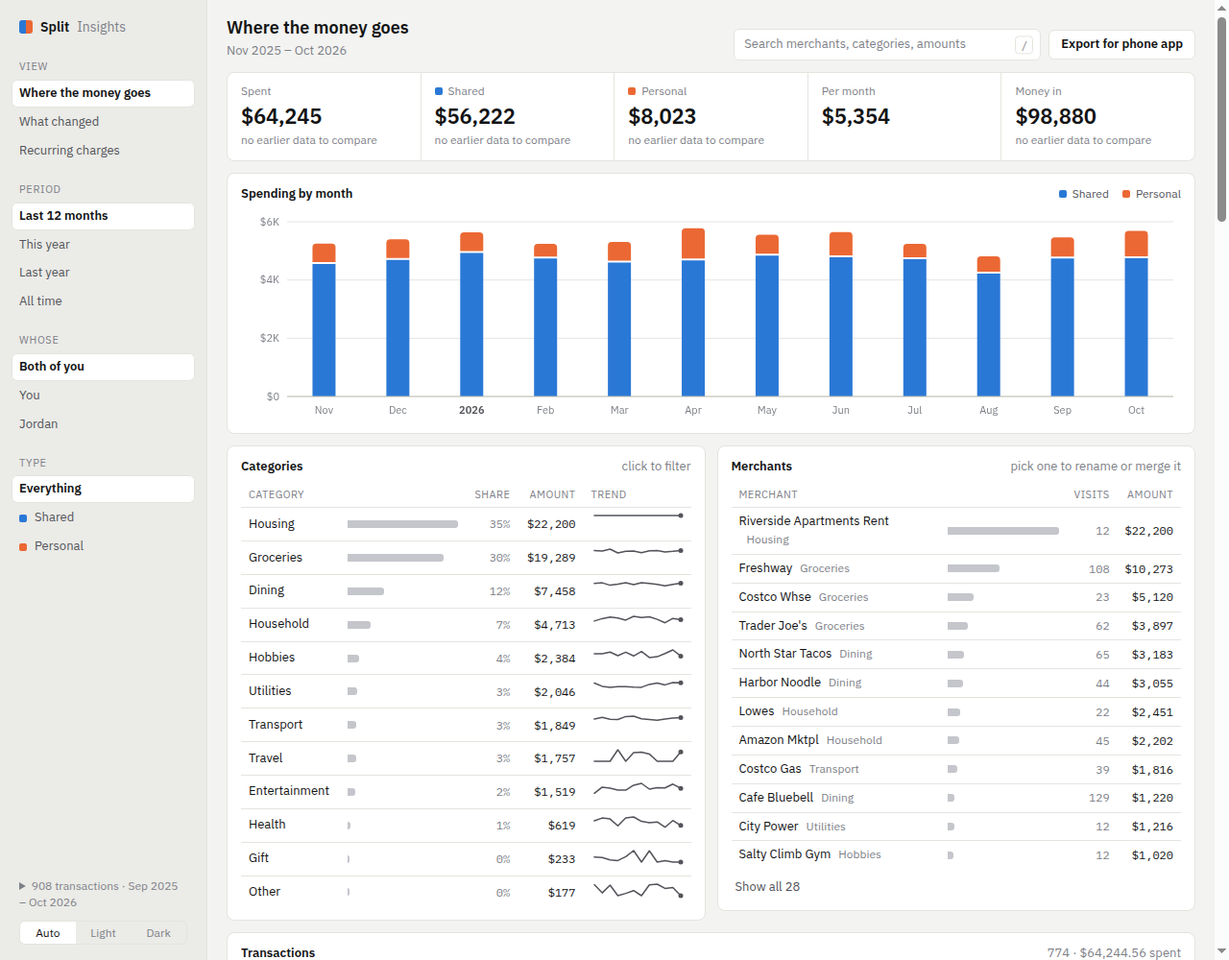
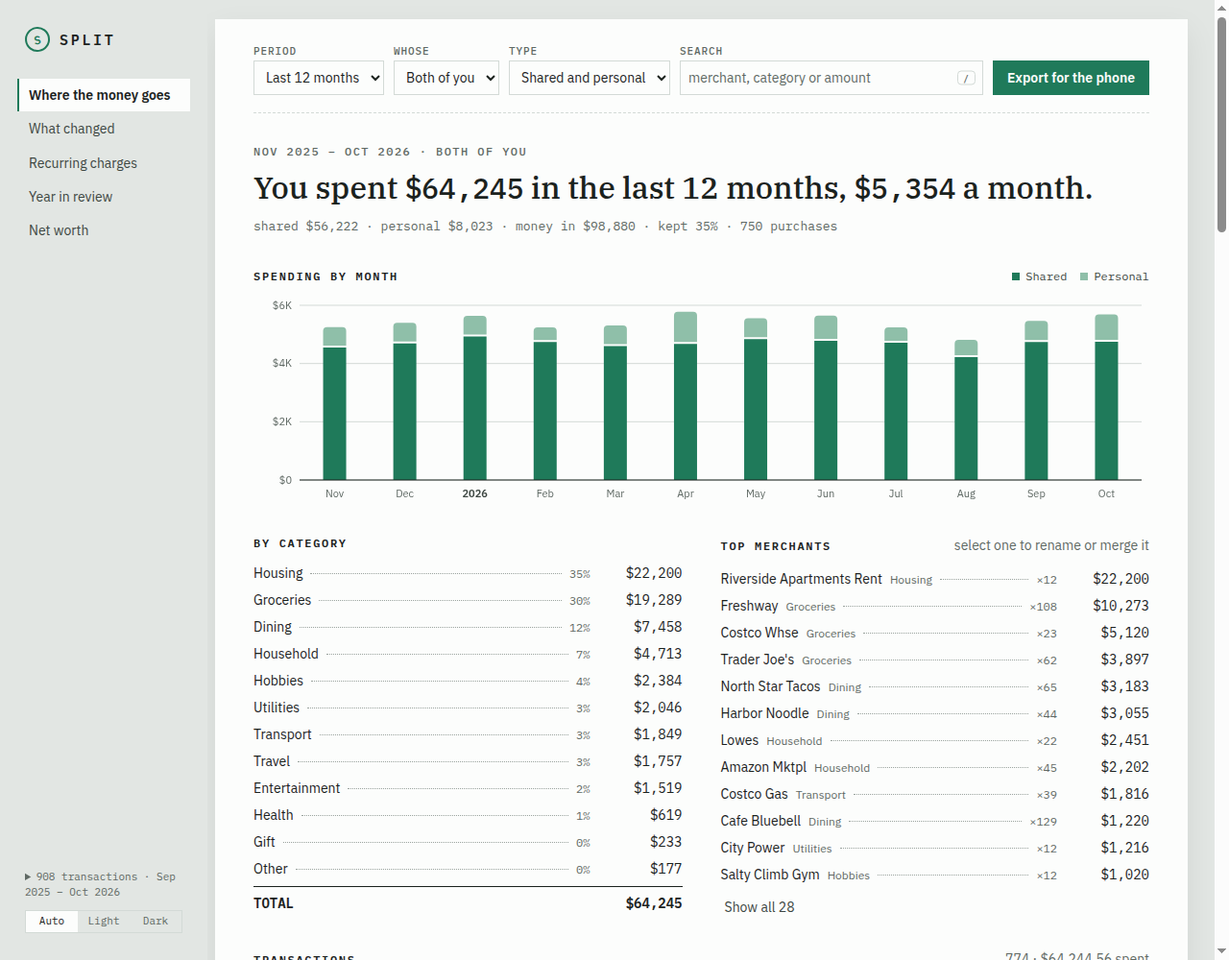
Bring the READMEs up to date

diff --git a/web/README.md b/web/README.md
@@ -8,7 +8,7 @@ The screen refreshes every 15 seconds while it's open, and whenever you switch b
 
 ## 1. Run it locally
 
-You need **Node 20 or newer** (Node 22 is best; Wrangler refuses to run on 18).
+You need **Node 22 or newer**, the same as CI.
 
     cd web
     npm install
@@ -29,16 +29,17 @@ To test the whole backend (sign-up and sign-in, the security guards, throttling,
 
     npm run test:api
 
-It builds the app, starts the Worker against a brand-new throwaway database, runs about 15 checks over HTTP, then deletes everything. Your local and deployed data aren't touched. Run it after any change to `worker/`, `shared/` or `migrations/`, before you deploy.
+It builds the app, starts the Worker against a brand-new throwaway database, runs about 60 checks over HTTP, then deletes everything. Your local and deployed data aren't touched. Run it after any change to `worker/`, `shared/` or `migrations/`, before you deploy.
 
-To check for common mistakes (unused code, misused React hooks and so on):
+To check for common mistakes (unused code, misused React hooks and so on), and the formatting:
 
     npm run lint
+    npm run format:check      # npm run format fixes it
 
 
 ## 2. Deploy to Cloudflare
 
-You need a free Cloudflare account and Node 20 or newer. Run everything from the `web/` folder. Deploy from your computer with the commands below; don't connect the git repo in the Cloudflare dashboard (see "Things to avoid").
+You need a free Cloudflare account and Node 22 or newer. Run everything from the `web/` folder. Deploy from your computer with the commands below; don't connect the git repo in the Cloudflare dashboard (see "Things to avoid").
 
 **Step 1: log in to Cloudflare.**
 
@@ -95,7 +96,7 @@ The `backups/` folder is git-ignored. The file contains your full ledger and the
 ### Things to avoid
 
 - **Don't connect the GitHub repo to Cloudflare's dashboard builds.** By default they also build every other branch you push and serve it at a public preview URL that uses the *real* database. Deploying from your computer avoids that, and `preview_urls` is turned off in `wrangler.jsonc`.
-- **Don't commit your data.** The repo on GitHub is public. `ledger.csv`, `split_transactions.csv`, `split_summary.json`, `.split_state.json`, `statements/`, PDFs and `backups/` are git-ignored; keep it that way, and check `git status` before committing.
+- **Don't commit your data.** The repo on GitHub is private, but treat it as if it weren't. `ledger.csv`, `split_transactions.csv`, `split_summary.json`, `.split_state.json`, `statements/`, PDFs and `backups/` are git-ignored; keep it that way, and check `git status` before committing.
 - **Never put a Cloudflare API token** or anything secret in `wrangler.jsonc`, `.env` files that aren't ignored, or the code. The app doesn't need any.
 
 ### How sign-in is protected
@@ -156,19 +157,19 @@ Sign in with email and password the first time, then add a passkey when the app 
 
 - **Add expense**: amount, name, who paid, and your share. Under the name you get names you've used before; tap one and it also fills in the category you gave it last time (until you pick a category yourself). Your share is a row of quick picks starting at your default split (see below): "Split evenly", "All theirs", "All mine", or "Custom…" for any percentage.
 - **Reading the list**: each row says who paid and who owes whom, like "You paid $184.32 · Sam owes you", and the amount on the right is what that entry adds to the balance (green: owed to you, red: you owe). Payments between you are greyed out with a PAID stamp, and each month ends with a subtotal: how much that month moved the balance.
-- **Search and filters**, under the balance: type part of a name, a category or an exact amount (`84.20`). **Filters** narrows by type (expenses or payments), who paid, category and a date range. The line under them counts what matches, with what was spent and your share of it (expenses only, not voided ones), and **Clear** resets everything. Imported statements are split across categories, so the category filter doesn't find them; the Spending tab does.
+- **Search and filters**, under the balance: type part of a name, a category or an exact amount (`84.20`). **Filters** narrows by type (expenses or payments), who paid, category and a date range. The line under them counts what matches, with what was spent and your share of it (expenses only, not voided ones), and **Clear** resets everything. Imported statements are split across categories, so the category filter doesn't find them; the Spending tab does, and its category sheet can open the Ledger with exactly the entries it counts (see below).
 - **Tap any entry** to see the details: who paid, the split, who added it and when. Entries your partner added say "added by …" in the list.
 - **Edit**: from an entry's details. The original isn't overwritten. It's kept in the history, marked "edited", and the corrected copy takes its place. The type (expense, payment, starting balance) can't change in an edit.
 - **Settle up**: records a payment between you. It defaults to the full balance, paid by whoever owes. It only updates the ledger and doesn't move any money.
 - **More > Recurring expenses**: rent, subscriptions and other bills with a fixed amount. Set the amount, who pays, the split, how often (weekly, monthly or yearly) and the first date (today or later). Each one is added to the ledger by itself, marked ↻, the first time either of you opens the app on or after its date. If nobody opens the app for a while, the missed ones are all added next time. A rule on the 29th–31st uses the last day of shorter months. Edit a rule to change the amount, payer or split (from the next one on), or to pause it. Resuming doesn't fill in the paused months. Stopping a rule keeps the entries it already added, and a voided or edited one never comes back. Bills paid by card also show up on your statements, so mark those vendors as "self" in `split-statements` to avoid counting them twice.
 - **More > Default split**: the share each of you normally pays, like 60/40. It's one setting for both of you and can be set once you've both joined.
-- **More > Import statement summary**: adds a statement to the app as totals only. On your computer, run `uv run split-ledger finish` (add `--person sam` for Sam's files). It writes `split_summary.json` with totals per month and category: the shared transactions, plus that person's own spending and income. Open it to see exactly what the app will get. It then archives the batch and prints where the file is. Get that small file to your phone (AirDrop, iCloud Drive), choose it in the app, and say **whose statement it is** (it also sets who paid the shared part). You can leave either part out. The shared part becomes one ledger entry, like `Expenses 01/15/26-02/03/26`, with its category breakdown. The personal part is saved as that person's monthly spending and income by category, visible to both of you. Everything is saved together or not at all, and the same statement can't be uploaded twice for the same person. The detailed transaction files never leave your computer: the app refuses them if you pick one by mistake. Older summary files (shared total only) still work.
+- **More > Import statement summary**: adds a statement to the app as totals only. On your computer, run `uv run split-ledger finish` (add `--person sam` for Sam's files). It writes `split_summary.json` with totals per month and category: the shared transactions, plus that person's own spending and income. Open it to see exactly what the app will get. It then archives the batch and prints where the file is. Get that small file to your phone (AirDrop, iCloud Drive), choose it in the app, and say **whose statement it is** (it also sets who paid the shared part). You can leave either part out. The shared part becomes one ledger entry, like `Expenses 01/15/26-02/03/26`, with its category breakdown. The personal part is saved as that person's monthly spending and income by category, visible to both of you. Everything is saved together or not at all, and the same statement can't be uploaded twice for the same person. One upload can cover up to 24 months. The detailed transaction files never leave your computer: the app refuses them if you pick one by mistake. Older summary files (shared total only) still work.
 - **Categories**: expenses you add by hand and recurring expenses can have an optional category, for the spending reports.
 - **Spending tab** (Ledger · Spending · Trends at the top): spending and cash flow by month, built only from totals.
   - Switch between **You**, **Sam**, **Shared** and **Both**. "You" is your own uploaded spending plus *your share* of shared expenses (so a $100 shared grocery run at 50/50 counts as $50). "Shared" is shared expenses at their full amount. "Both" is everything, and always equals You + Sam.
   - **Net cash flow** is money in (income from your uploads) minus spending, with how much of your income you kept.
   - A **coverage strip** shows which days of the month your uploads cover. A month that's only partly uploaded says so and hides comparisons, and a month with nothing uploaded for someone is marked incomplete rather than shown as overspending.
-  - **By category** lists the month's categories, with the change against the average of earlier months that have data. Tap one for its 12-month trend and what's in it: shared expenses by name, statement uploads as a monthly total only. **Move money to another category** fixes a month after the fact, e.g. $700 of a Costco run from groceries to household. It changes one upload or one imported shared statement, so totals and the balance stay the same; for a shared one the amount is the full shared amount and it changes for both of you. Undo right after, or move it back later. (Hand-added expenses: edit their category instead.)
+  - **By category** lists the month's categories, with the change against the average of earlier months that have data. Tap one for its 12-month trend and what's in it: shared expenses by name, statement uploads as a monthly total only. **See these entries in the Ledger** opens the Ledger showing just those shared expenses, with a "From Spending" line and **Show all** to go back. An imported statement shows there in full, though Spending only counts its part in that category. **Move money to another category** fixes a month after the fact, e.g. $700 of a Costco run from groceries to household. It changes one upload or one imported shared statement, so totals and the balance stay the same; for a shared one the amount is the full shared amount and it changes for both of you. Undo right after, or move it back later. (Hand-added expenses: edit their category instead.)
   - **Last 6 months** charts net cash flow (or shared spending); tap a month to jump to it. "Show numbers" under each chart has the same numbers as a table.
   - **Statement uploads** lists every upload, and you can delete a wrong one. A shared entry added by the same import stays in the ledger; void it there.
   - Payments between you, starting balances and voided entries never count as spending. Shared expenses added without a category show as "No category".
@@ -207,8 +208,11 @@ Also bump the `?v=` numbers on the other icon links, deploy, and remove and re-a
 
     migrations/           D1 (SQLite) tables, applied in order
     shared/owed.ts        the splitting rule, used by both the app and the Worker
+    shared/categories.*   the category list (the Python scripts keep a copy; a test checks they match)
+    shared/recurring.ts   recurring-expense dates, shared by the app and the Worker
+    shared/limits.ts      limits the app and the desktop page share, like 24 months per upload
     public/_headers       security headers for the pages
-    scripts/              reset-password helper
+    scripts/              reset-password, desktop-key, and install-app (adds the desktop app to the menu)
     tests/api.test.mjs    end-to-end backend tests (npm run test:api)
     tests/fake-passkey.mjs  a software passkey for those tests
     worker/index.ts       the backend's front door: routes each /api/* request
@@ -219,6 +223,7 @@ Also bump the `?v=` numbers on the other icon links, deploy, and remove and re-a
     worker/entries.ts     add, edit, void and restore entries
     worker/recurring.ts   recurring expenses
     worker/spending.ts    statement imports and spending totals
+    worker/desktop.ts     desktop keys, and the uploads they're allowed to list, add and replace
     eslint.config.js      lint rules (npm run lint)
     src/ledger.ts         money parsing, balance math, CSV import and export
     src/ledger.test.ts    tests for the above
@@ -237,6 +242,8 @@ Also bump the `?v=` numbers on the other icon links, deploy, and remove and re-a
     src/SpendingScreen.tsx the Spending tab
     src/files.ts          saving files (CSV exports) to the device
     src/ui.tsx            shared UI pieces
+    desktop/              the desktop page that split-insights serves (npm run build:desktop)
+    src-tauri/            the desktop app around that page (npm run app)
     wrangler.jsonc        Cloudflare config
 
 ## Not done yet

diff --git a/src/split_expenses/README.md b/src/split_expenses/README.md
@@ -2,17 +2,17 @@
 
 These run on your computer and never send anything anywhere. There are three:
 
-- `split-statements` reads bank statement PDFs and goes through every transaction once: money out is yours, shared or excluded; money in is income, a return or excluded. Each gets a category.
+- `split-statements` reads bank statements (PDFs, or CSV and OFX downloads) and goes through every transaction once: money out is yours, shared or excluded; money in is income, a return or excluded. Each gets a category.
 - `split-ledger` keeps a running balance of who owes who, and writes the totals-only summary that the web app imports.
-- `split-insights` opens a page in your browser with every transaction you've gone through, for digging into where the money goes.
+- `split-insights` opens a page in your browser with every transaction you've gone through, for digging into where the money goes, and your net worth.
 
-Run both from the repo root, not from this folder. For how they fit with the web app, see the [main README](../../README.md).
+Run them from the repo root, not from this folder. For how they fit with the web app, see the [main README](../../README.md).
 
-The scripts keep your data in plain files (`ledger.csv`, `split_transactions.csv`, `personal_transactions.csv`, `split_summary.json`, `.split_state.json`, `data/` for `--person`, and your PDFs in `statements/`). The `.gitignore` leaves those out of the repo on purpose. This repo is public, so check `git status` before every commit.
+The scripts keep your data in plain files (`ledger.csv`, `split_transactions.csv`, `personal_transactions.csv`, `split_summary.json`, `.split_state.json`, `data/` for `--person`, and your PDFs in `statements/`). The `.gitignore` leaves those out of the repo on purpose, along with `archive/`, `balances/` and `desktop-data/`. Check `git status` before every commit anyway.
 
 ## Setup
 
-Run both from the repo root with `uv run split-statements` and `uv run split-ledger`. There's nothing to install by hand: the first time, uv sets up the project and its one dependency, `pdfplumber`. Your files are read and written in the folder you run the commands from.
+Run them from the repo root with `uv run split-statements`, `uv run split-ledger` and `uv run split-insights`. There's nothing to install by hand: the first time, uv sets up the project and its one dependency, `pdfplumber`. Your files are read and written in the folder you run the commands from.
 
 **Both of you on one computer:** add `--person sam` (any short name) to `split-statements` and `split-ledger summarize` / `finish`. That person's review progress, remembered vendors, transaction files and summary then live in `data/sam/`, so the two of you never mix. Without `--person`, the files are in the repo root as before.
 
@@ -55,6 +55,7 @@ It keeps track of what you've already gone through in `.split_state.json`, so yo
 Options:
 
 - `--person NAME` keep this person's files in `data/NAME/`
+- `--csv-sign negative-out` or `positive-out` say which sign is money out in CSV downloads with one amount column
 - `-o FILE` save splits somewhere other than `split_transactions.csv`
 - `--personal-output FILE` save your own transactions somewhere other than `personal_transactions.csv`
 - `--dump` just print what it parsed, no questions
@@ -97,7 +98,7 @@ Or do both steps at once, summarize and then archive:
 
     uv run split-ledger finish --person sam
 
-It writes the summary, moves the batch into `archive/<date>/` (see "A typical month" in the [main README](../../README.md#a-typical-month)) and prints the path of the summary to import, like `archive/sam/2026-11-08/split_summary.json`. If there's nothing to summarize, nothing is moved. It takes `--no-personal` and `--name` like `summarize`; the personal transactions are archived either way. It stops if a `split_summary.json` from an earlier `summarize` is still there, since that one may already be imported.
+`uv run split-ledger archive` does just the second step. `finish` writes the summary, moves the batch into `archive/<date>/` (see "A typical month" in the [main README](../../README.md#a-typical-month)) and prints the path of the summary to import, like `archive/sam/2026-11-08/split_summary.json`. If there's nothing to summarize, nothing is moved. It takes `--no-personal` and `--name` like `summarize`; the personal transactions are archived either way. It stops if a `split_summary.json` from an earlier `summarize` is still there, since that one may already be imported.
 
 One thing to watch: importing doesn't clear `split_transactions.csv`. If you review more statements and import again, the old transactions get counted again. Either delete the CSV after you import it, or use `-o` to start a new file next time.
 
@@ -122,11 +123,13 @@ The phone app only ever sees monthly totals. This is the other side: every trans
     cd web && npm install && npm run build:desktop && cd ..
     uv run split-insights
 
+It opens http://127.0.0.1:8765 in your browser. `--port` picks another port, `--no-open` doesn't open the browser, and `--dir` reads the files from another folder. Ctrl+C stops it.
+
 It reads every `split_transactions.csv` and `personal_transactions.csv` it can find: the current batch, `data/<person>/`, and everything in `archive/`. When the same statement shows up in more than one batch (an archived copy and a second pass, say), the newest file wins, so nothing is counted twice. The terminal prints what came from where.
 
 The page runs on `127.0.0.1` and only answers to that address, so other machines and other websites can't read it. Reload it after going through new statements. Merchant names are cleaned up from what the bank sends (`TST* CAFE BLUEBELL 207-555-0100 ME 6462 1111` becomes Cafe Bluebell); hover a name in the transactions list to see the original.
 
-Click a month, a category or a merchant to filter everything else by it. `/` jumps to search, and Esc clears.
+Each view starts with a sentence that sums it up, like "You spent $64,245 in the last 12 months, $5,354 a month", with the other figures in a line under it. The bar at the top picks the period, whose spending (yours, the other person's or both), shared or personal, and searches. Click a month, a category or a merchant to filter everything else by it. `/` jumps to search, and Esc clears.
 
 Besides that overview there are four more views in the sidebar. **What changed** compares a month with the six before it: which categories and merchants went up or down, places you went for the first time, and regulars you skipped. **Recurring charges** finds subscriptions, memberships and bills from merchants that charge on a steady schedule, with what each costs a year, when the next one is due, and any price change. Bills that vary (electricity) count when they're filed as utilities or housing. **Year in review** sums up a calendar year: totals against the same months the year before (when your files have them), month by month, categories, top merchants, and a few highlights like the biggest purchase (rent and bills aside), the place you went most, and new places. Click anything in these views to see those transactions in the overview.
 
@@ -134,9 +137,9 @@ Besides that overview there are four more views in the sidebar. **What changed**
 
 When the same place shows up under different names, pick one in Merchants and rename it. Typing another merchant's name merges the two, and it suggests names that look alike.
 
-You can also refile transactions there: change the category or shared/personal right in the list, or tick several (shift-click for a range) and change them together. Each change can be undone, and "edited" on a row shows what the statement had and puts it back. When everything you changed is one merchant, it offers to file that merchant the same way in future statements, which saves the same rule `split-statements` would.
+You can also refile transactions there: click a transaction and change its category or shared/personal right in the list, or tick several (shift-click for a range) and change them together. Each change can be undone, and "edited" on a row shows what the statement had and puts it back. When everything you changed is one merchant, it offers to file that merchant the same way in future statements, which saves the same rule `split-statements` would.
 
-**Sending it to the phone app.** "Export for phone app" makes the same `split_summary.json` that `split-ledger finish` does, for one person and the dates you pick, with your refilings and renames applied. Import it on the phone under More > Import statement summary. It starts from the day after the last summary it knows about (the ones `finish` archived, and earlier exports), and warns when the dates overlap one, since importing the same days twice counts them twice. To fix something already in the app, delete that upload there and import the new file.
+**Sending it to the phone app.** "Export for the phone" makes the same `split_summary.json` that `split-ledger finish` does, for one person and the dates you pick, with your refilings and renames applied. Import it on the phone under More > Import statement summary. It starts from the day after the last summary it knows about (the ones `finish` archived, and earlier exports), and warns when the dates overlap one, since importing the same days twice counts them twice. To fix something already in the app, delete that upload there and import the new file.
 
 With a desktop key (`npm run desktop-key`, see [web/README.md](../../web/README.md#desktop-keys)) there's also **Send to the app**, which skips the file: it sends the same summary straight to the app. It then knows exactly what's already there, starts after it, and when the dates overlap an upload, offers to take that one out first (its spending totals go, and its shared expense is voided, so the ledger still shows it crossed out).
 
@@ -151,6 +154,8 @@ Then, from `web/`:
 
     npm run app:build      # takes a few minutes the first time
     npm run app:install    # adds it to the app menu; under WSL, the Windows Start menu
+
+Under WSL, it only appears in the Start menu after WSL restarts: run `wsl --shutdown` from PowerShell, then open Ubuntu again.
 
 `npm run app` runs it without installing. It reads the files in this repo folder; set `SPLIT_DIR` to use another one.
 

diff --git a/README.md b/README.md
@@ -16,16 +16,16 @@ My partner and I share a lot of expenses, and I wanted an easy way to keep track
 
 It has three parts:
 
-- **Python scripts** that run on my computer. One reads bank statement PDFs and walks me through every transaction so I can mark it as mine, shared, or neither, with a category. The other keeps a running ledger and makes a small summary file for the app. See [src/split_expenses/README.md](src/split_expenses/README.md).
+- **Python scripts** that run on my computer. One reads bank statements (PDFs, or the CSV and OFX files banks let you download) and walks me through every transaction so I can mark it as mine, shared, or neither, with a category. The other keeps a running ledger and makes a small summary file for the app. See [src/split_expenses/README.md](src/split_expenses/README.md).
 - **A web app** we both use from our phones. It shows the balance, lets either of us add an expense or settle up, and has spending and cash flow reports by month and category. It runs on Cloudflare (a Worker plus a D1 database). See [web/README.md](web/README.md).
-- **A desktop page** for digging into every transaction, both of ours, on my computer. `uv run split-insights` serves it locally, so the details never leave the machine.
+- **A desktop page** for digging into every transaction, both of ours, on my computer: where the money goes, what changed this month, recurring charges, a year in review, and our net worth. `uv run split-insights` serves it locally, so the details never leave the machine. It also comes as a desktop app with its own window. See the split-insights section of [src/split_expenses/README.md](src/split_expenses/README.md#split-insights).
 
 It's built for exactly two people. The app won't let a third person join.
 
 ## How the pieces fit
 
 ```
-bank statement PDFs
+bank statements (PDF, CSV, OFX)
         │
         ▼
 uv run split-statements      go through each transaction: mine, shared or skip
@@ -44,6 +44,8 @@ the web app                  import it from my phone
 ```
 
 The scripts and the app never talk to each other directly. The summary file is just totals per month and category: no merchant names, no individual purchases. Open it before you import it if you want to see exactly what goes up.
+
+The desktop page can make the same summary file, with any merchants I've renamed or transactions I've refiled there. With a desktop key it can also send it to the app directly instead of as a file; a key can only add and replace statement uploads.
 
 Going the other way, the app can export the ledger as a CSV in the format `split-ledger` reads.
 
@@ -69,6 +71,8 @@ For the desktop page, build it once and start it from the repo root:
     cd web && npm run build:desktop && cd ..
     uv run split-insights
 
+It opens at http://127.0.0.1:8765. To run it as an app in its own window instead, see the split-insights section of [src/split_expenses/README.md](src/split_expenses/README.md#split-insights) (it needs Rust once).
+
 ## A typical month
 
 1. Download the month's statements into `statements/`: PDFs, or the bank's CSV or OFX download.
@@ -79,20 +83,20 @@ For the desktop page, build it once and start it from the repo root:
 
 ## Privacy
 
-This repo is public, so everything personal is git-ignored: the PDFs, transaction CSVs, the ledger, summaries, `data/` and `archive/`. Still, check `git status` before you commit.
+The repo is private, but everything personal is git-ignored anyway, in case that ever changes: statements and PDFs, `balances/`, transaction CSVs, the ledger, summaries, `data/`, `archive/` and `desktop-data/`. Still, check `git status` before you commit.
 
-CI only runs the tests. It never deploys and doesn't use any secrets; deploying is a manual step from my computer.
+CI only runs the checks below and compiles the desktop app. It never deploys and doesn't use any secrets; deploying is a manual step from my computer.
 
 ## Tests
 
     uv run python -m unittest discover -s tests -v    # the scripts
-    cd web && npm test                                 # the app's ledger and spending math
+    cd web && npm test                                 # the app's ledger and spending math, and the desktop page's analytics
     cd web && npm run test:api                         # the backend, against a throwaway database
 
-And the linters, which CI also runs:
+And the linters and formatting checks, which CI also runs:
 
-    uv run ruff check
-    cd web && npm run lint
+    uv run ruff check && uv run ruff format --check
+    cd web && npm run lint && npm run format:check
 
 ## Layout
 
@@ -100,5 +104,10 @@ And the linters, which CI also runs:
     tests/                tests for the scripts
     web/                  the web app (and its README)
     web/desktop/          the desktop page that split-insights serves
+    web/src-tauri/        the desktop app: a window around that page
     web/shared/           code the app and the Worker share, and the category list (the scripts keep a copy; a test checks they match)
-    statements/           your PDFs (git-ignored)
+    screenshots/          the pictures in this README (made with made-up data)
+    statements/           your statements: PDFs and downloads (git-ignored)
+    balances/             brokerage and retirement downloads for Net worth (git-ignored)
+    archive/, data/       finished batches, and per-person files from --person (git-ignored)
+    desktop-data/         the desktop page's own files: renames, refilings, accounts (git-ignored)
